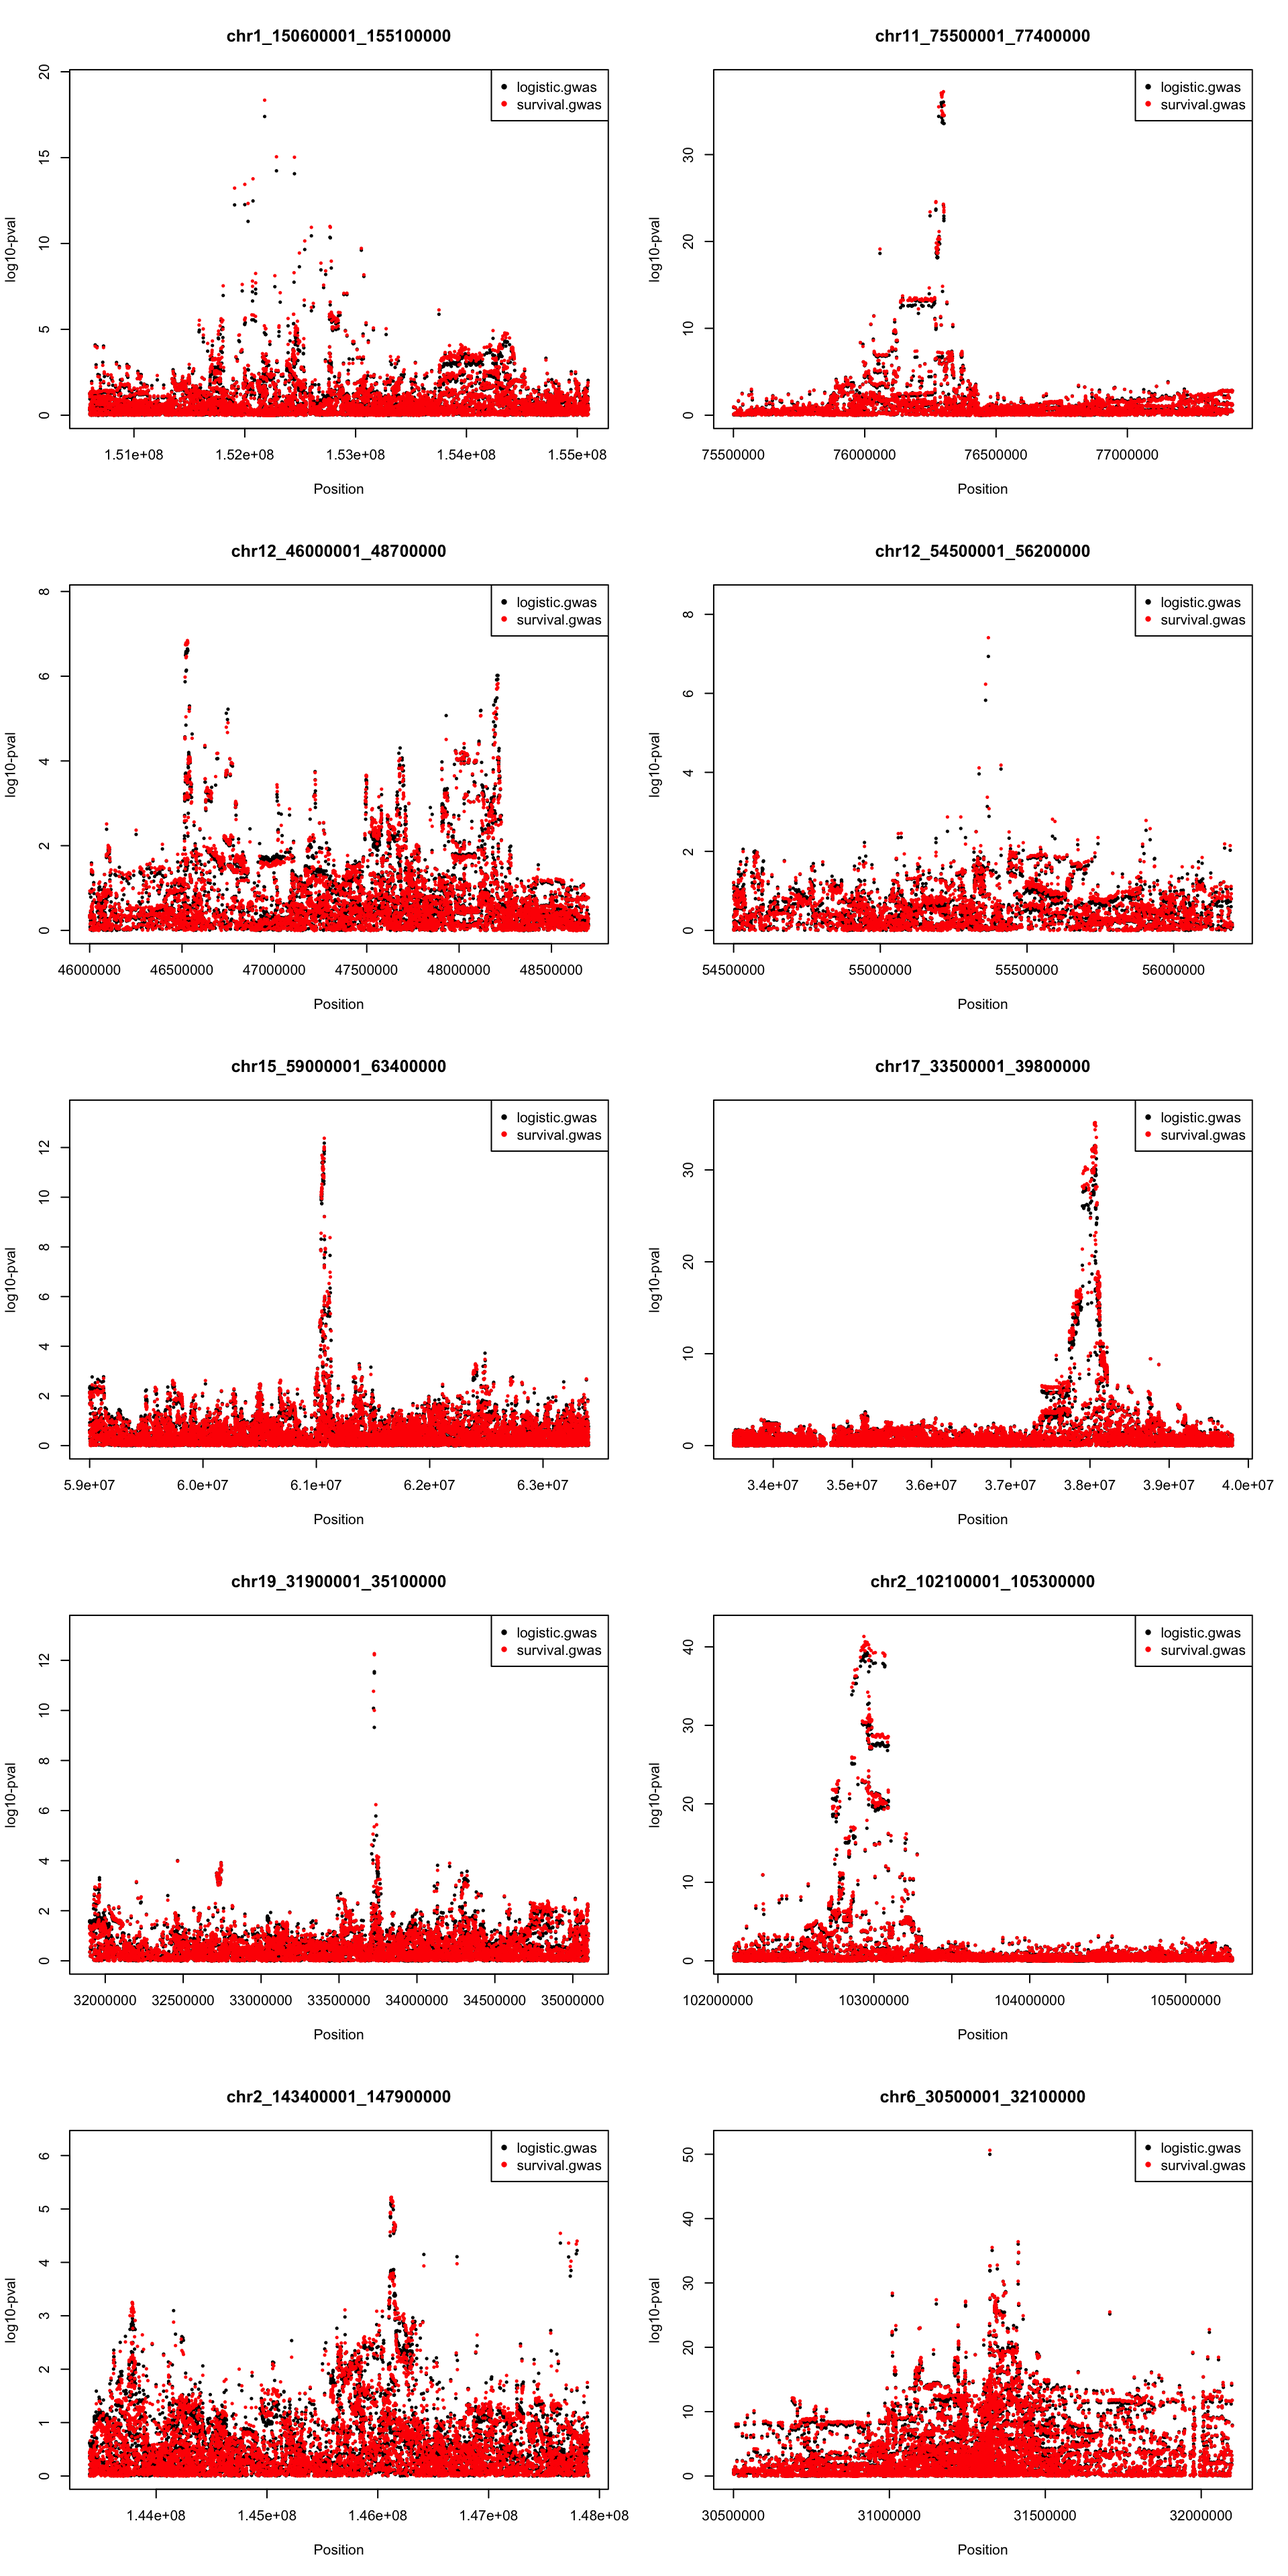
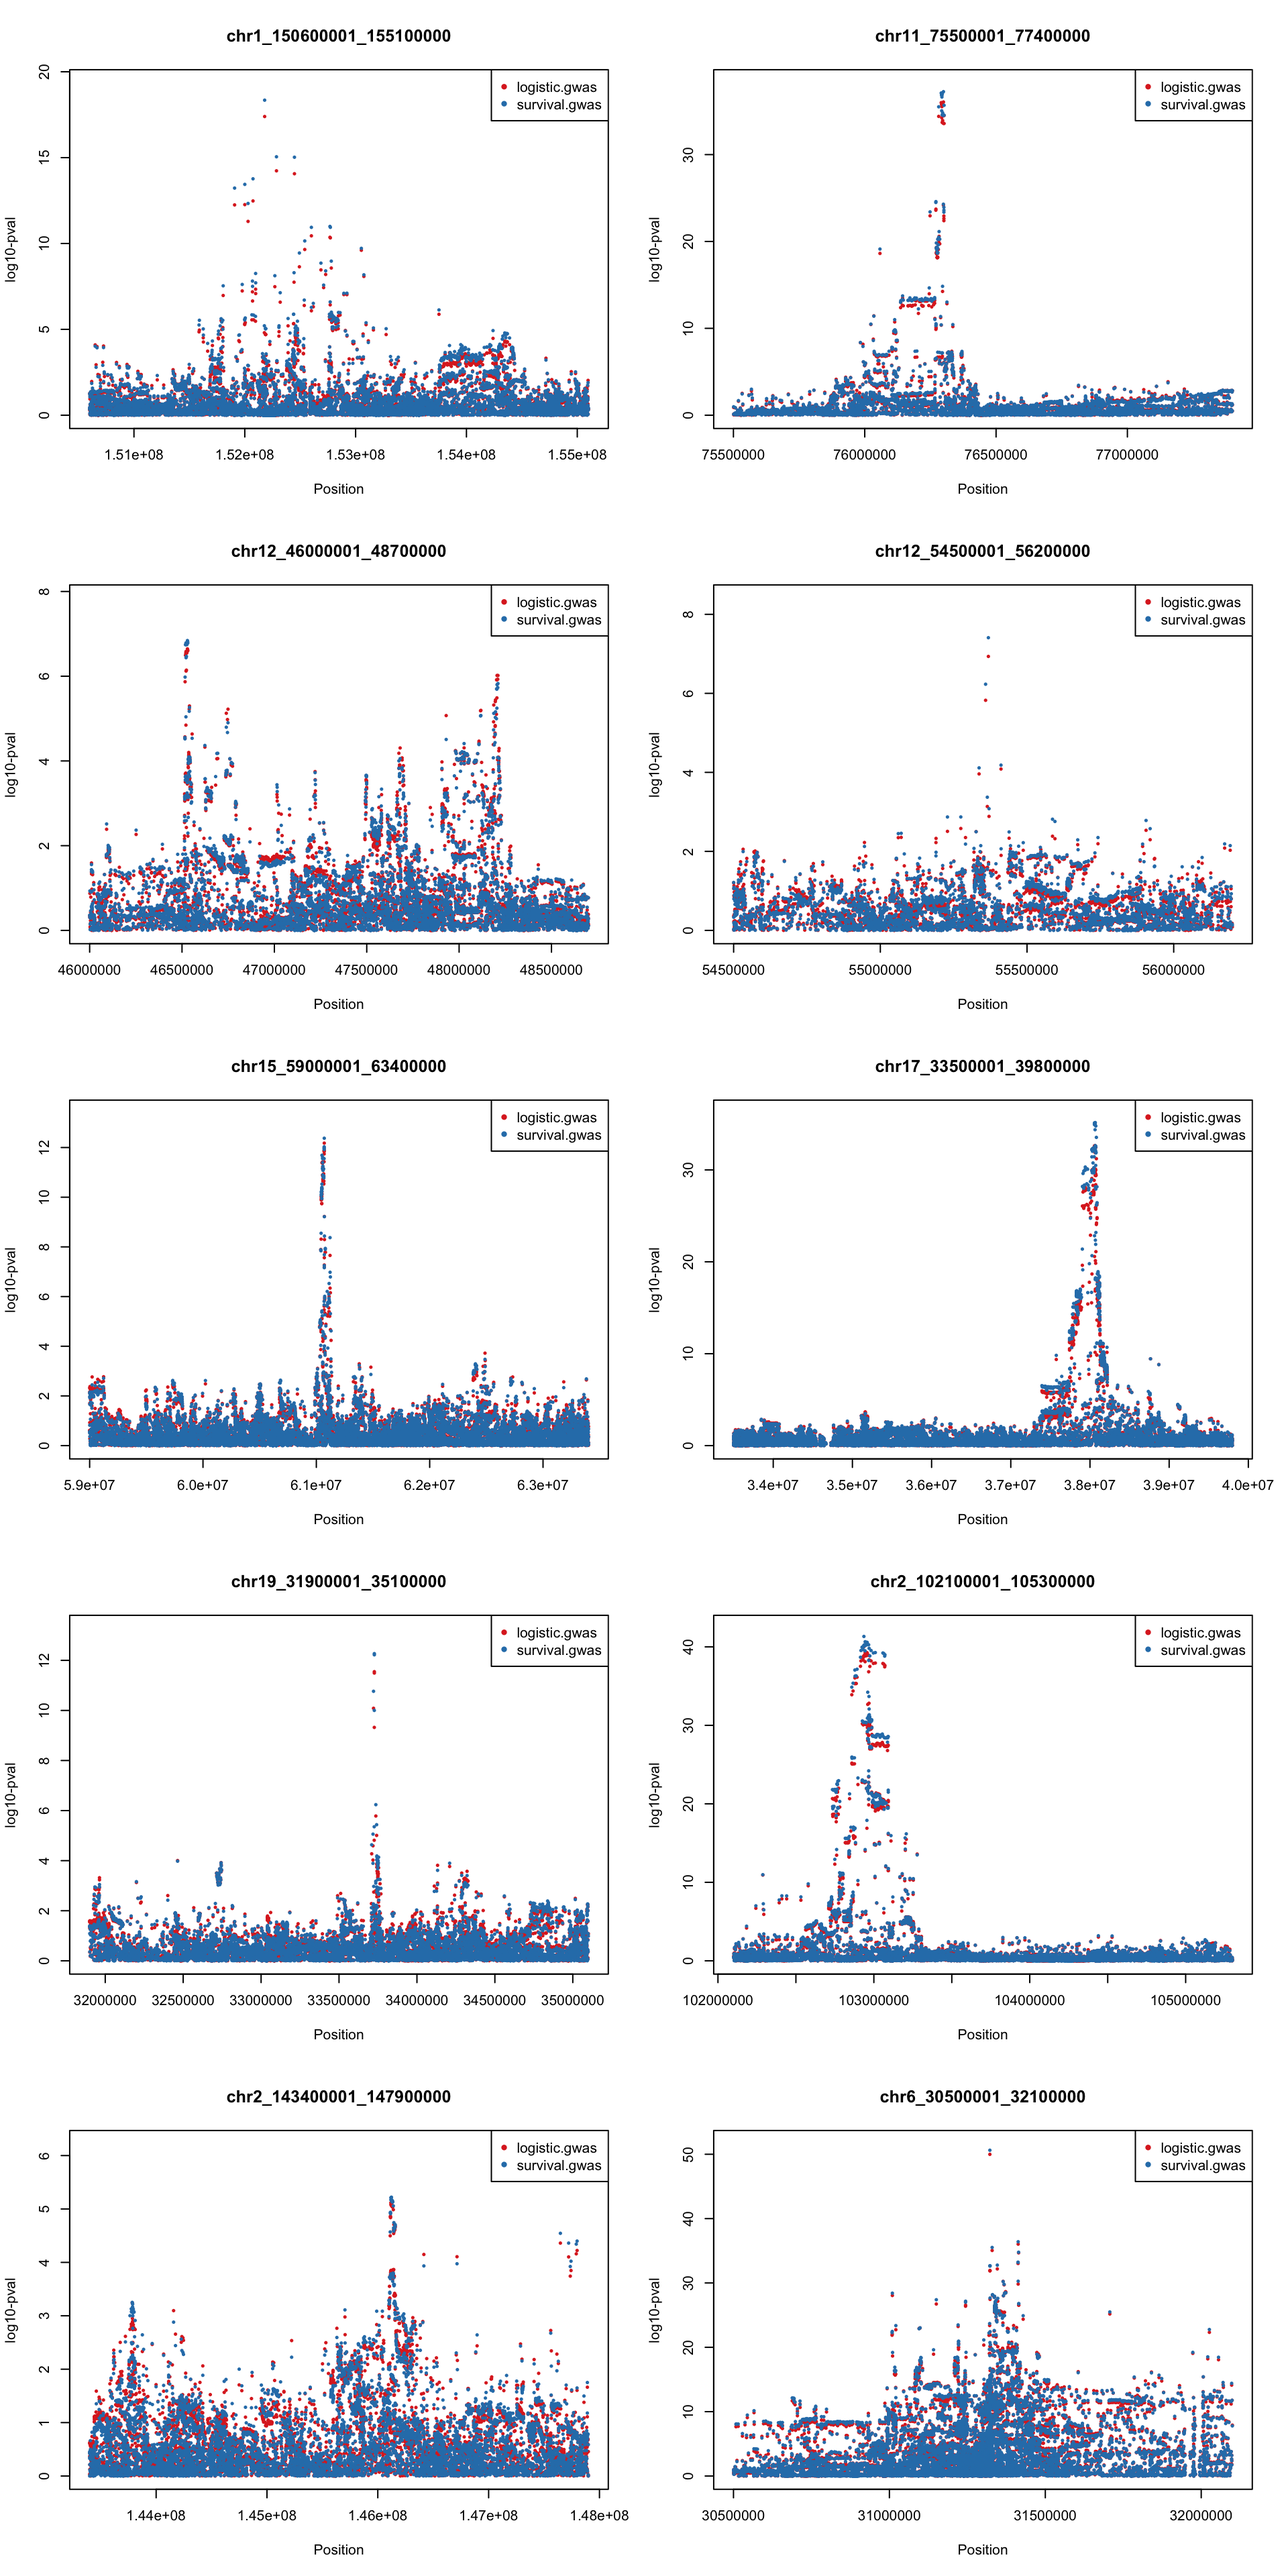
Build site.

diff --git a/docs/gwas_asthma.html b/docs/gwas_asthma.html
@@ -475,16 +475,16 @@ This reproducible <a href="http://rmarkdown.rstudio.com">R Markdown</a> analysis
 <div class="panel panel-default">
 <div class="panel-heading">
 <p class="panel-title">
-<a data-toggle="collapse" data-parent="#workflowr-checks" href="#strongRepositoryversionstrongahrefhttpsgithubcomyunqiyang0215survivaldataanalysistree17cba29b0fd472dcc244ed565a634e48753c6dedtargetblank17cba29a"> <span class="glyphicon glyphicon-ok text-success" aria-hidden="true"></span> <strong>Repository version:</strong> <a href="https://github.com/yunqiyang0215/survival-data-analysis/tree/17cba29b0fd472dcc244ed565a634e48753c6ded" target="_blank">17cba29</a> </a>
+<a data-toggle="collapse" data-parent="#workflowr-checks" href="#strongRepositoryversionstrongahrefhttpsgithubcomyunqiyang0215survivaldataanalysistreedee32337b59a7532c9d364ea03372e67ff2e6aa3targetblankdee3233a"> <span class="glyphicon glyphicon-ok text-success" aria-hidden="true"></span> <strong>Repository version:</strong> <a href="https://github.com/yunqiyang0215/survival-data-analysis/tree/dee32337b59a7532c9d364ea03372e67ff2e6aa3" target="_blank">dee3233</a> </a>
 </p>
 </div>
[2 lines of base64/hex data omitted]
 <div class="panel-body">
 <p>
 Great! You are using Git for version control. Tracking code development and connecting the code version to the results is critical for reproducibility.
 </p>
 <p>
-The results in this page were generated with repository version <a href="https://github.com/yunqiyang0215/survival-data-analysis/tree/17cba29b0fd472dcc244ed565a634e48753c6ded" target="_blank">17cba29</a>. See the <em>Past versions</em> tab to see a history of the changes made to the R Markdown and HTML files.
+The results in this page were generated with repository version <a href="https://github.com/yunqiyang0215/survival-data-analysis/tree/dee32337b59a7532c9d364ea03372e67ff2e6aa3" target="_blank">dee3233</a>. See the <em>Past versions</em> tab to see a history of the changes made to the R Markdown and HTML files.
 </p>
 <p>
 Note that you need to be careful to ensure that all relevant files for the analysis have been committed to Git prior to generating the results (you can use <code>wflow_publish</code> or <code>wflow_git_commit</code>). workflowr only checks the R Markdown file, but you know if there are other scripts or data files that it depends on. Below is the status of the Git repository when the results were generated:
@@ -535,6 +535,40 @@ Message
 </tr>
 </thead>
 <tbody>
+<tr>
+<td>
+Rmd
+</td>
+<td>
+<a href="https://github.com/yunqiyang0215/survival-data-analysis/blob/dee32337b59a7532c9d364ea03372e67ff2e6aa3/analysis/gwas_asthma.Rmd" target="_blank">dee3233</a>
+</td>
+<td>
+yunqiyang0215
+</td>
+<td>
+2024-06-17
+</td>
+<td>
+wflow_publish("analysis/gwas_asthma.Rmd")
+</td>
+</tr>
+<tr>
+<td>
+html
+</td>
+<td>
+<a href="https://rawcdn.githack.com/yunqiyang0215/survival-data-analysis/9919087bc53578d416965edf4853cac17ecf7b85/docs/gwas_asthma.html" target="_blank">9919087</a>
+</td>
+<td>
+yunqiyang0215
+</td>
+<td>
+2024-06-17
+</td>
+<td>
+Build site.
+</td>
+</tr>
 <tr>
 <td>
 Rmd
@@ -886,11 +920,50 @@ for (i in 1:length(file.survival)){
   snp_ids = sapply(rownames(gwas.survival), function(x) unlist(strsplit(x, &quot;_&quot;))[1])
   gwas.survival$ID = snp_ids
   dat = merge(gwas.logistic, gwas.survival, by = &quot;ID&quot;)
-  plot(dat$POS, -log10(dat$P), pch = 20, cex = 0.5, main = region_name, ylab = &quot;log10-pval&quot;, xlab = &quot;Position&quot;, ylim = c(0, max(-log10(dat$P), -log10(dat$p.value.spa)) + 1) )
-  points(dat$POS, -log10(dat$p.value.spa), pch = 20, cex = 0.5, col = &quot;red&quot;)
-  legend(&quot;topright&quot;, legend = c(&quot;logistic.gwas&quot;, &quot;survival.gwas&quot;), col = c(&quot;black&quot;, &quot;red&quot;), pch = 20)
+  plot(dat$POS, -log10(dat$P), pch = 20, cex = 0.5, main = region_name, ylab = &quot;log10-pval&quot;, xlab = &quot;Position&quot;, ylim = c(0, max(-log10(dat$P), -log10(dat$p.value.spa)) + 1), col = &quot;#de2d26&quot;)
+  points(dat$POS, -log10(dat$p.value.spa), pch = 20, cex = 0.5, col = &quot;#2c7fb8&quot;)
+  
+  
+  legend(&quot;topright&quot;, legend = c(&quot;logistic.gwas&quot;, &quot;survival.gwas&quot;), col = c(&quot;#de2d26&quot;, &quot;#2c7fb8&quot;), pch = 20)
 }</code></pre>
 <p><img src="figure/gwas_asthma.Rmd/unnamed-chunk-9-1.png" width="960" style="display: block; margin: auto;" /></p>
+<p>
+<button type="button" class="btn btn-default btn-xs btn-workflowr btn-workflowr-fig" data-toggle="collapse" data-target="#fig-unnamed-chunk-9-1">
+Past versions of unnamed-chunk-9-1.png
+</button>
+</p>
+<div id="fig-unnamed-chunk-9-1" class="collapse">
+<div class="table-responsive">
+<table class="table table-condensed table-hover">
+<thead>
+<tr>
+<th>
+Version
+</th>
+<th>
+Author
+</th>
+<th>
+Date
+</th>
+</tr>
+</thead>
+<tbody>
+<tr>
+<td>
+<a href="https://github.com/yunqiyang0215/survival-data-analysis/blob/9919087bc53578d416965edf4853cac17ecf7b85/docs/figure/gwas_asthma.Rmd/unnamed-chunk-9-1.png" target="_blank">9919087</a>
+</td>
+<td>
+yunqiyang0215
+</td>
+<td>
+2024-06-17
+</td>
+</tr>
+</tbody>
+</table>
+</div>
+</div>
 <br>
 <p>
 <button type="button" class="btn btn-default btn-workflowr btn-workflowr-sessioninfo" data-toggle="collapse" data-target="#workflowr-sessioninfo" style="display: block;">
